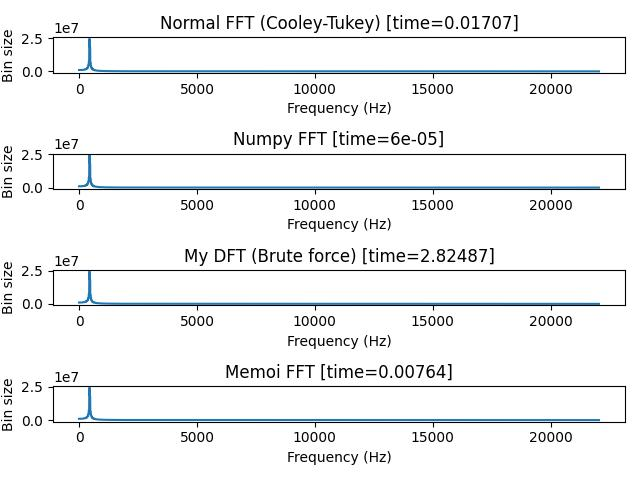
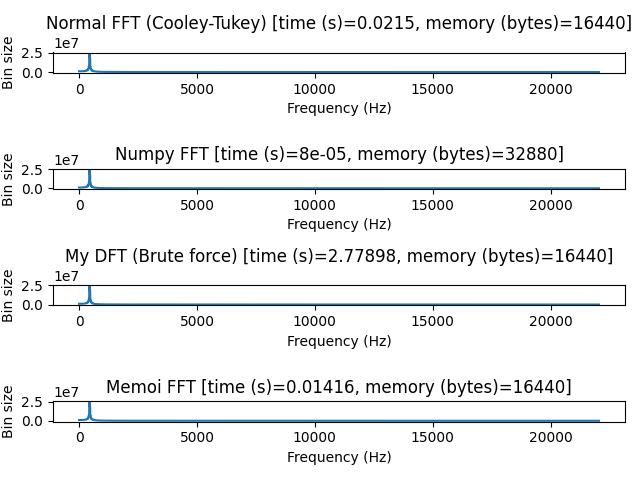
add memory

diff --git a/src/fourier_exp_000/fft.py b/src/fourier_exp_000/fft.py
@@ -182,25 +182,28 @@ def main(args):
     freq_bins_my_dft = scale_for_graph(discrete_fourier_transform(sampleset, window_size), window_size)
     end = time.time()
     my_dft_time = round(end - start, 5)
+    my_dft_memory = sys.getsizeof(freq_bins_my_dft)
+    print(f"dft took {my_dft_time} seconds and used {my_dft_memory} bytes of memory")
+
 
     fig, axs = plt.subplots(4, 1)
-    axs[0].set_title('Normal FFT (Cooley-Tukey) [time={}]'.format(normal_fft_time))
+    axs[0].set_title('Normal FFT (Cooley-Tukey) [time (s)={}, memory (bytes)={}]'.format(normal_fft_time, normal_fft_memory))
     axs[0].set_xlabel('Frequency (Hz)')
     axs[0].set_ylabel('Bin size')
     axs[0].plot(np.arange(22050), scale_for_graph(freq_bins_normal_fft[:len(freq_bins_normal_fft) // 2], 22050))
     
-    axs[1].set_title('Numpy FFT [time={}]'.format(np_fft_time))
+    axs[1].set_title('Numpy FFT [time (s)={}, memory (bytes)={}]'.format(np_fft_time, numpy_fft_memory))
     axs[1].set_xlabel('Frequency (Hz)')
     axs[1].set_ylabel('Bin size')
     axs[1].plot(np.arange(22050), scale_for_graph(freq_bins_numpy_fft[:len(freq_bins_numpy_fft) // 2], 22050))
     
-    axs[2].set_title('My DFT (Brute force) [time={}]'.format(my_dft_time))
+    axs[2].set_title('My DFT (Brute force) [time (s)={}, memory (bytes)={}]'.format(my_dft_time, my_dft_memory))
     axs[2].set_xlabel('Frequency (Hz)')
     axs[2].set_ylabel('Bin size')
     axs[2].plot(np.arange(22050), scale_for_graph(freq_bins_my_dft[:len(freq_bins_numpy_fft) // 2], 22050))
 
 
-    axs[3].set_title('Memoi FFT [time={}]'.format(memoi_fft_time))
+    axs[3].set_title('Memoi FFT [time (s)={}, memory (bytes)={}]'.format(memoi_fft_time, memoi_fft_memory))
     axs[3].set_xlabel('Frequency (Hz)')
     axs[3].set_ylabel('Bin size')
     axs[3].plot(np.arange(22050), scale_for_graph(freq_bins_memoi_fft[:len(freq_bins_memoi_fft) // 2], 22050))
